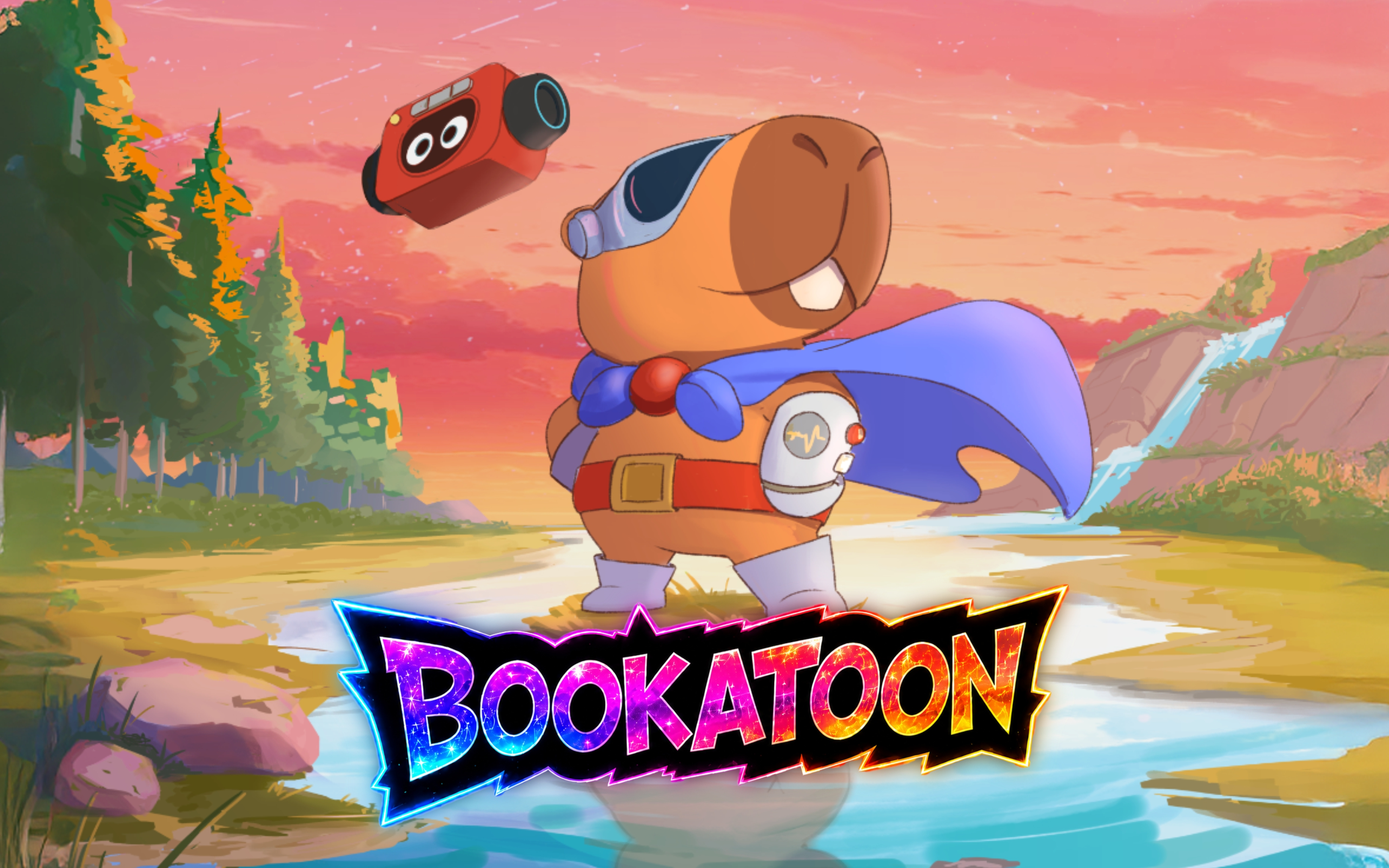
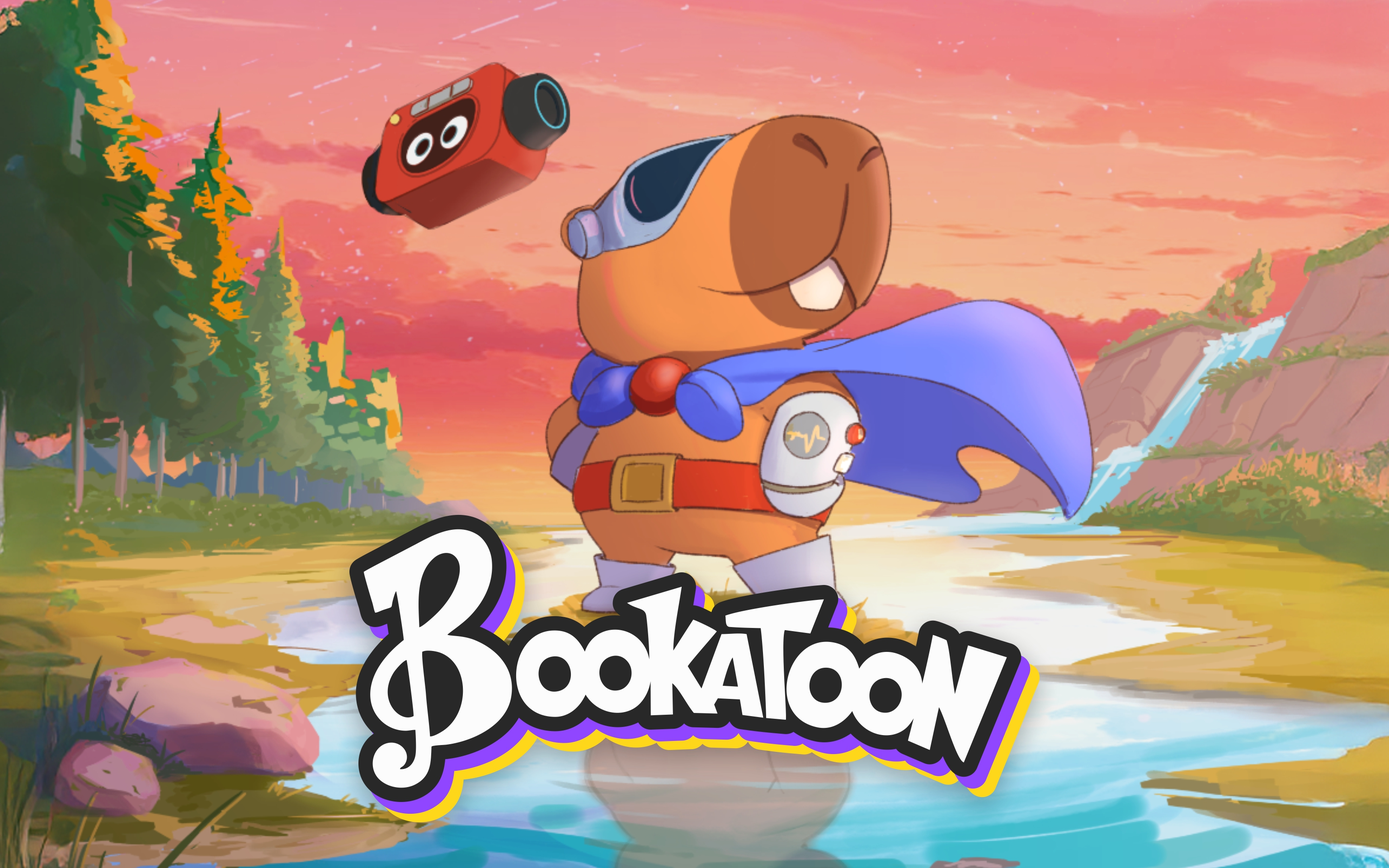
feat: media refresh for Bookatoon and Everlen IP pages
- Swap Bookatoon hero images on home and IP page
- Add floating "Discover Bookatoon" button with spinning disc
  animation, responsive across breakpoints, linking to
  bookatoon.com
- Replace Everlen screenshot grid with a 12-image sliding
  carousel, autoplay every 5s, arrow navigation, and dot
  indicators
- Pause carousel autoplay on manual back navigation, resume
  on forward
- Remove vignette overlay that was darkening Everlen gameplay
  screenshots
- Add spin-slow keyframe for the floating disc animation
- Add EN/DE translations for the floating button label and
  caption

Changed region(s): [[0.2187, 0.5938, 0.781, 0.9688]]

diff --git a/src/routes/everlen.tsx b/src/routes/everlen.tsx
@@ -6,7 +6,19 @@ import icon1 from "@/assets/icon1.png";
 import icon2 from "@/assets/icon2.png";
 import icon3 from "@/assets/icon3.png";
 import steamIcon from "@/assets/steam.svg";
-import { useState } from "react";
+import everlenGameplay1 from "@/assets/EverlenGameplay1.png";
+import everlenGameplay2 from "@/assets/EverlenGameplay2.png";
+import everlenGameplay3 from "@/assets/EverlenGameplay3.png";
+import everlenGameplay4 from "@/assets/EverlenGameplay4.png";
+import everlenGameplay5 from "@/assets/EverlenGameplay5.png";
+import everlenGameplay6 from "@/assets/EverlenGameplay6.png";
+import everlenGameplay7 from "@/assets/EverlenGameplay7.png";
+import everlenGameplay8 from "@/assets/EverlenGameplay8.png";
+import everlenGameplay9 from "@/assets/EverlenGameplay9.png";
+import everlenGameplay10 from "@/assets/EverlenGameplay10.png";
+import everlenGameplay11 from "@/assets/EverlenGameplay11.png";
+import everlenGameplay12 from "@/assets/EverlenGameplay12.png";
+import { useEffect, useState } from "react";
 import { Trans, useTranslation } from "react-i18next";
 
 export const Route = createFileRoute("/everlen")({
@@ -60,6 +72,32 @@ function EverlenPage() {
   const pillarsText = t("everlenPage.pillars.items", { returnObjects: true }) as { title: string; text: string }[];
   const pillars = pillarsText.map((p, i) => ({ ...p, icon: PILLAR_ICONS[i] }));
 
+  const GALLERY = [
+    everlenGameplay1, everlenGameplay2, everlenGameplay3, everlenGameplay4,
+    everlenGameplay5, everlenGameplay6, everlenGameplay7, everlenGameplay8,
+    everlenGameplay9, everlenGameplay10, everlenGameplay11, everlenGameplay12,
+  ];
+  const [current, setCurrent] = useState(0);
+  const [autoplayEnabled, setAutoplayEnabled] = useState(true);
+
+  useEffect(() => {
+    if (!autoplayEnabled) return;
+    const timer = setInterval(() => {
+      setCurrent((prev) => (prev + 1) % GALLERY.length);
+    }, 5000);
+    return () => clearInterval(timer);
+  }, [autoplayEnabled]);
+
+  const goPrev = () => {
+    setAutoplayEnabled(false);
+    setCurrent((prev) => (prev - 1 + GALLERY.length) % GALLERY.length);
+  };
+  const goNext = () => {
+    setAutoplayEnabled(true);
+    setCurrent((prev) => (prev + 1) % GALLERY.length);
+  };
+  const goTo = (i: number) => setCurrent(i);
+
   return (
     <PageLayout>
       {/* Hero com play button */}
@@ -72,7 +110,6 @@ function EverlenPage() {
           height={1080}
         />
         <div className="absolute inset-0 bg-gradient-to-b from-background/20 via-background/40 to-background" />
-        <div className="absolute inset-0 vignette" />
 
         {/* Play button */}
         <button
@@ -127,18 +164,62 @@ function EverlenPage() {
           </div>
         </div>
       </section>
-      
+
       {/* media gallery */}
       <section className="py-32">
         <div className="mx-auto max-w-[1500px] px-6 lg:px-10">
           <SectionLabel index="//MEDIA">{t("everlenPage.media.sectionLabel")}</SectionLabel>
-          <div className="mt-10 grid auto-rows-[200px] grid-cols-2 gap-3 md:grid-cols-4 md:auto-rows-[260px]">
-            {[1, 2, 3, 4, 5, 6].map((i) => (
-              <div key={i} className={`relative overflow-hidden border border-border/60 clip-cut ${i === 1 || i === 4 ? "row-span-2" : ""}`}>
-                <img src={everlen} alt={`Everlen still ${i}`} loading="lazy" className="h-full w-full object-cover transition-transform duration-1000 hover:scale-110" />
-                <div className="absolute inset-0 bg-gradient-to-t from-background/80 to-transparent" />
-                <div className="absolute bottom-3 left-3 font-mono text-[10px] tracking-[0.3em] text-plasma">PLATE_{String(i).padStart(2, "0")}</div>
+
+          <div className="relative mt-10 overflow-hidden border border-border/60 clip-cut">
+            <div className="relative aspect-video w-full overflow-hidden">
+              <div
+                className="flex h-full transition-transform duration-700 ease-[cubic-bezier(0.77,0,0.175,1)]"
+                style={{
+                  width: `${GALLERY.length * 100}%`,
+                  transform: `translateX(-${(100 / GALLERY.length) * current}%)`,
+                }}
+              >
+                {GALLERY.map((img, i) => (
+                  <div key={i} className="h-full shrink-0" style={{ width: `${100 / GALLERY.length}%` }}>
+                    <img
+                      src={img}
+                      alt={`Everlen gameplay still ${i + 1}`}
+                      loading="lazy"
+                      className="h-full w-full object-cover"
+                    />
+                  </div>
+                ))}
               </div>
+
+              <div className="pointer-events-none absolute bottom-3 left-3 font-mono text-[10px] tracking-[0.3em] text-plasma">
+                PLATE_{String(current + 1).padStart(2, "0")} / {String(GALLERY.length).padStart(2, "0")}
+              </div>
+            </div>
+
+            <button
+              onClick={goPrev}
+              aria-label="Previous slide"
+              className="absolute left-4 top-1/2 flex h-12 w-12 -translate-y-1/2 items-center justify-center border border-plasma/60 bg-background/50 backdrop-blur-sm transition-all hover:border-plasma hover:bg-plasma/20"
+            >
+              <span className="text-xl text-plasma">‹</span>
+            </button>
+            <button
+              onClick={goNext}
+              aria-label="Next slide"
+              className="absolute right-4 top-1/2 flex h-12 w-12 -translate-y-1/2 items-center justify-center border border-plasma/60 bg-background/50 backdrop-blur-sm transition-all hover:border-plasma hover:bg-plasma/20"
+            >
+              <span className="text-xl text-plasma">›</span>
+            </button>
+          </div>
+
+          <div className="mt-4 flex justify-center gap-2">
+            {GALLERY.map((_, i) => (
+              <button
+                key={i}
+                onClick={() => goTo(i)}
+                aria-label={`Go to slide ${i + 1}`}
+                className={`h-1.5 transition-all ${i === current ? "w-8 bg-plasma" : "w-1.5 bg-border"}`}
+              />
             ))}
           </div>
         </div>

diff --git a/src/routes/bookatoon.tsx b/src/routes/bookatoon.tsx
@@ -1,7 +1,7 @@
 import { createFileRoute, Link } from "@tanstack/react-router";
 import { PageLayout } from "@/components/site/PageLayout";
 import { SectionLabel } from "@/components/site/SectionLabel";
-import chamado from "@/assets/chamado-key-art.jpg";
+import chamado from "@/assets/bookatoonIPsemLogo.jpg";
 import { useState } from "react";
 import { Trans, useTranslation } from "react-i18next";
 
@@ -12,7 +12,7 @@ export const Route = createFileRoute("/bookatoon")({
       { name: "description", content: "An emotionally crafted VR game for children undergoing pediatric oncology treatment. Built in partnership with Hospital do Amor." },
       { property: "og:title", content: "Bookatoon - Goblin Studios" },
       { property: "og:description", content: "VR game for pediatric oncology - in partnership with Hospital do Amor." },
-      { property: "og:image", content: "/assets/chamado-key-art.jpg" },
+      { property: "og:image", content: "/assets/bookatoonIPsemLogo.jpg" },
     ],
   }),
   component: ChamadoPage,
@@ -49,6 +49,38 @@ function VideoModal({ onClose }: { onClose: () => void }) {
   );
 }
 
+function BookatoonFloatingButton() {
+  const { t } = useTranslation();
+  return (
+    <a
+      href="https://bookatoon.com/"
+      target="_blank"
+      rel="noopener noreferrer"
+      className="group fixed bottom-4 right-4 z-40 flex items-center gap-3 sm:bottom-10 sm:right-10 lg:bottom-30 lg:right-30"
+    >
+      <div className="pointer-events-none max-w-0 overflow-hidden whitespace-nowrap opacity-0 transition-all duration-300 group-hover:max-w-[260px] group-hover:opacity-100">
+        <p className="font-mono text-[11px] tracking-[0.25em] text-foreground">
+          {t("bookatoonPage.floatingCta.label")}
+        </p>
+        <p className="mt-1 text-[10px] tracking-wide text-muted-foreground">
+          {t("bookatoonPage.floatingCta.caption")}
+        </p>
+      </div>
+      <div className="relative flex h-12 w-12 shrink-0 items-center justify-center rounded-full border border-foreground/30 bg-background/40 backdrop-blur-sm transition-all duration-300 group-hover:border-plasma group-hover:shadow-[0_0_24px_color-mix(in_oklab,var(--plasma)_30%,transparent)] sm:h-16 sm:w-16">
+        <svg viewBox="0 0 100 100" className="spin-slow h-full w-full fill-foreground">
+          <circle cx="50" cy="50" r="48" fill="none" stroke="currentColor" strokeWidth="1.5" opacity="0.5" />
+          <circle cx="50" cy="50" r="38" fill="none" stroke="currentColor" strokeWidth="1" opacity="0.35" />
+          <circle cx="50" cy="50" r="28" fill="none" stroke="currentColor" strokeWidth="1" opacity="0.25" />
+          <circle cx="50" cy="50" r="15" fill="var(--background)" />
+          <ellipse cx="45" cy="56" rx="5.5" ry="4.2" fill="currentColor" transform="rotate(-15 45 56)" />
+          <rect x="48.7" y="39" width="3" height="18" fill="currentColor" />
+          <path d="M51.7 39 C61 41 61.5 49 55 53.5 C58 48 57.5 43 51.7 41 Z" fill="currentColor" />
+        </svg>
+      </div>
+    </a>
+  );
+}
+
 function ChamadoPage() {
   const [modalOpen, setModalOpen] = useState(false);
   const { t } = useTranslation();
@@ -57,7 +89,7 @@ function ChamadoPage() {
   return (
     <PageLayout>
       <section className="relative h-[100svh] min-h-[700px] w-full overflow-hidden">
-        <img src={chamado} alt="O Chamado do Herói key art" className="h-full w-full object-cover" width={1920} height={1080} />
+        <img src={chamado} alt="O Chamado do Herói key art" className="h-full w-full object-cover" style={{ objectPosition: `center var(--bookatoon-hero-y, 15%)` }} width={1920} height={1080} />
         <div className="absolute inset-0 bg-gradient-to-b from-background/30 via-background/30 to-background" />
 
         {/* Play button */}
@@ -138,6 +170,7 @@ function ChamadoPage() {
       </section>
 
       {modalOpen && <VideoModal onClose={() => setModalOpen(false)} />}
+      <BookatoonFloatingButton />
     </PageLayout>
   );
 }

diff --git a/src/styles.css b/src/styles.css
@@ -352,6 +352,14 @@
   }
   .drift { animation: drift 7s ease-in-out infinite; }
 
+  @keyframes spin-slow {
+  from { transform: rotate(0deg); }
+  to { transform: rotate(360deg); }
+}
+.spin-slow {
+  animation: spin-slow 6s linear infinite;
+}
+
   .clip-cut {
     clip-path: polygon(0 0, 100% 0, 100% calc(100% - 14px), calc(100% - 14px) 100%, 0 100%);
   }

diff --git a/src/routes/__root.tsx b/src/routes/__root.tsx
@@ -53,9 +53,13 @@ export const Route = createRootRoute({
 });
 
 function RootComponent() {
+  const router = useRouter();
+  const pathname = router.state.location.pathname;
+  const hideAtmosphere = pathname === "/everlen";
+
   return (
     <>
-      <Atmosphere />
+      {!hideAtmosphere && <Atmosphere />}
       <Outlet />
     </>
   );
